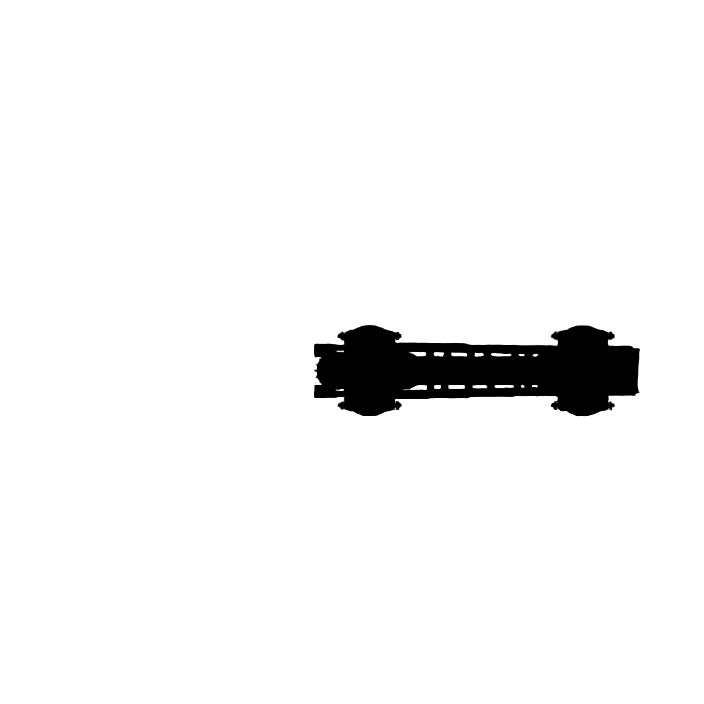
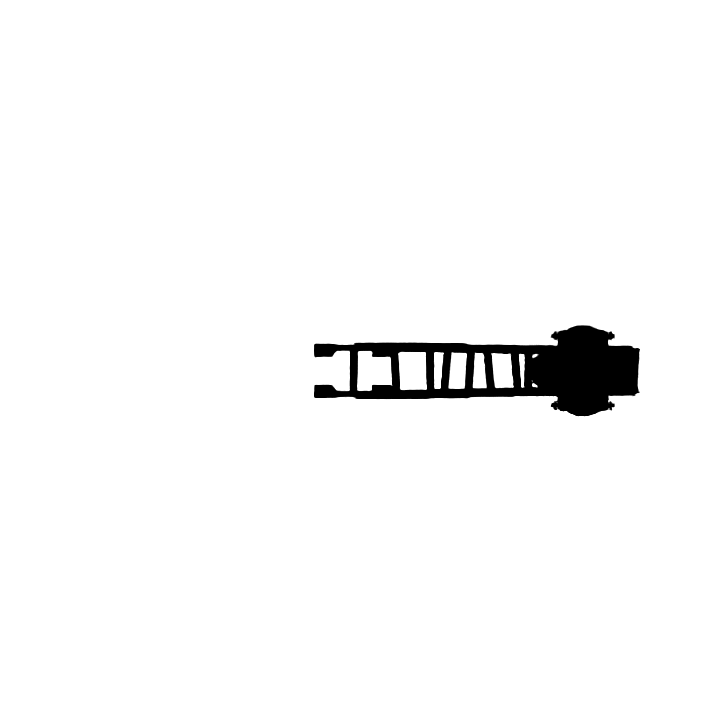
Import and implement the new batch of graphics

Changed region(s): [[0.4375, 0.4375, 0.75, 0.5938]]

diff --git a/mods_2.0/089_pipe-pillars/import_render.php b/mods_2.0/089_pipe-pillars/import_render.php
@@ -1,0 +1,31 @@
+<?php
+
+// php mods_2.0/089_pipe-pillars/import_render.php "/Users/quezler/Downloads/Render"
+
+$Render = $argv[1];
+$Object = "{$Render}/Object";
+$Shadow = "{$Render}/Shadow";
+
+$pipe_pillar = __DIR__ . '/graphics/entity/pipe-pillar';
+
+$mapping = [
+  '0000' => 'pipe-pillar',
+  '0001' => 'pipe-pillar-pipe-connection',
+  '0002' => 'pipe-pillar-bottom-pipe-left',
+  '0003' => 'pipe-pillar-bottom-pipe-right',
+  '0004' => 'pipe-pillar-elevated-vertical-bottom',
+  '0005' => 'pipe-pillar-elevated-horizontal-left',
+  '0006' => 'pipe-pillar-elevated-vertical-top',
+  '0007' => 'pipe-pillar-elevated-horizontal-right',
+  '0008' => 'pipe-pillar-elevated-vertical-center',
+  '0009' => 'pipe-pillar-elevated-horizontal-center',
+  '0010' => 'pipe-pillar-elevated-pipe-cover-down',
+  '0011' => 'pipe-pillar-elevated-pipe-cover-left',
+  '0012' => 'pipe-pillar-elevated-pipe-cover-right',
+];
+
+foreach($mapping as $numbered => $named)
+{
+    copy("{$Object}/{$numbered}.png", "{$pipe_pillar}/{$named}.png");
+    copy("{$Shadow}/{$numbered}.png", "{$pipe_pillar}/{$named}-shadow.png");
+}
